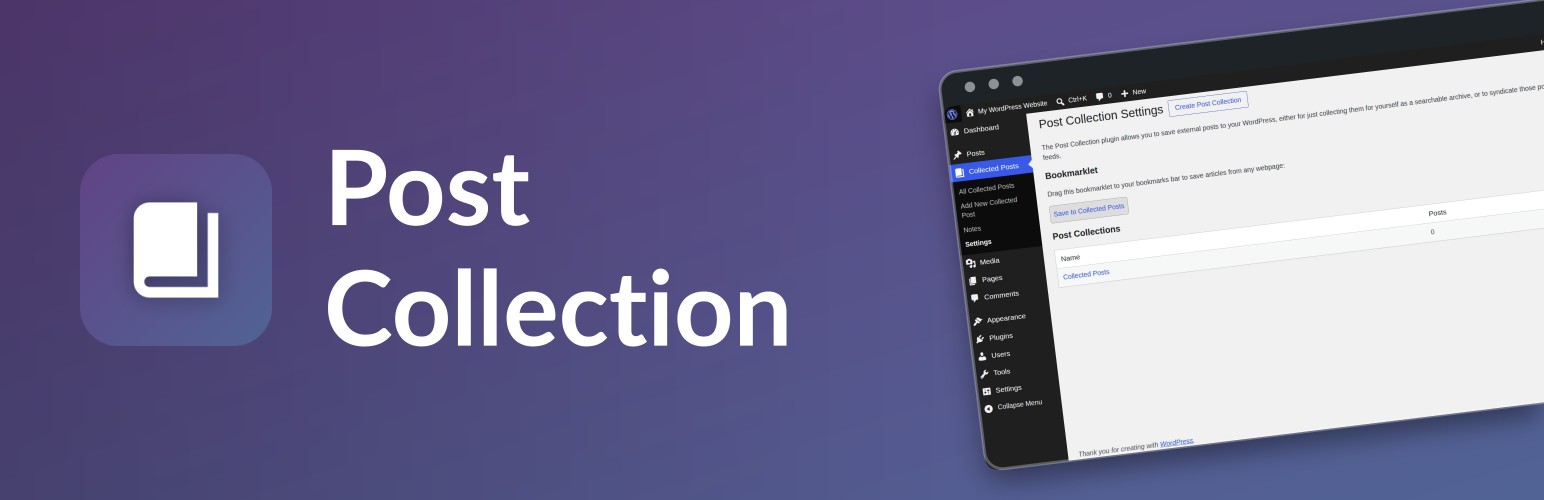
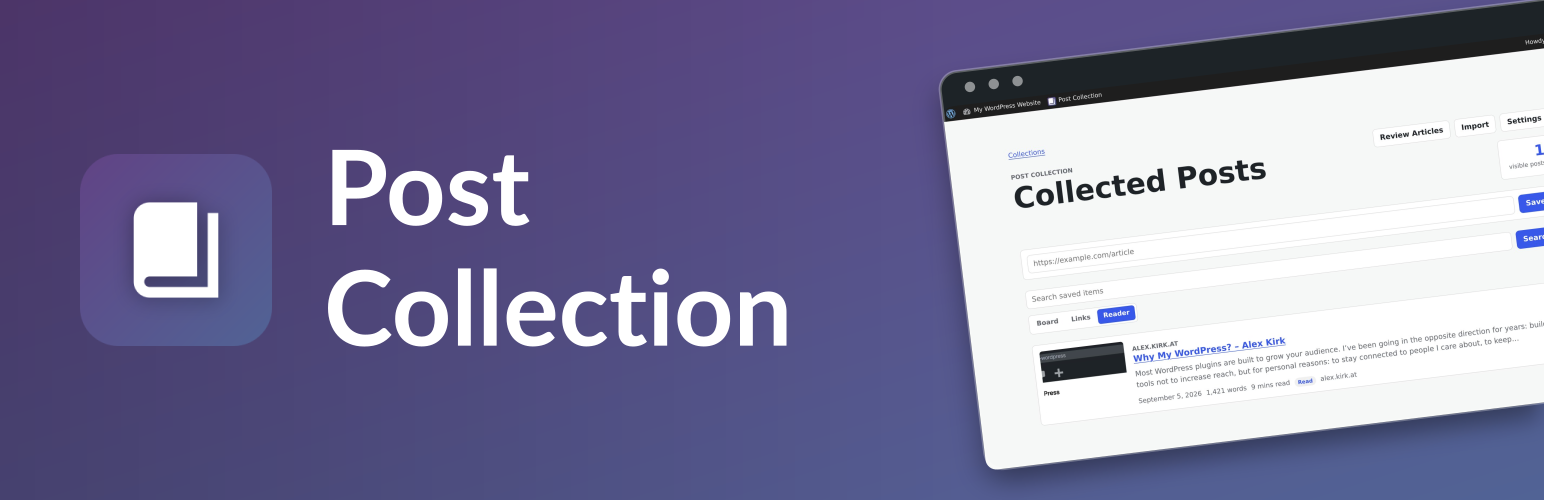
Recapture the screenshots from the demo blueprint
The committed screenshot predated the demo blueprint and showed the wp-admin
settings screen with no collections in it, which is neither where the app lives
nor what it does. All three are taken from `demo.json` in Playground, so they
show the app with its two collections and a fetched article in them:

- a collection, with the field that saves a URL, the board/links/reader views
  and a saved article
- that article in the reader, extracted from the page it came from
- the app on a phone

The banner follows `screenshot-1`, so it is regenerated too.

Claude-Session: https://claude.ai/code/session_01VX3ACFuenLQDRp2TfEuuKF

diff --git a/README.md b/README.md
@@ -77,7 +77,9 @@ Yes. Every collection can be exported as a Bookmarks HTML file or as OPML, and t
 
 ## Screenshots
 
-1. A collection in the Post Collection app, listing the saved articles with their tags and notes.
+1. A collection in the Post Collection app: the field that saves a URL, the board, links and reader views, and a saved article with its word count and read time.
+2. A saved article in the reader, extracted from the page it came from, with a link back to the original.
+3. The app on a phone, with each collection and what it holds most recently.
 
 ## Changelog
 
